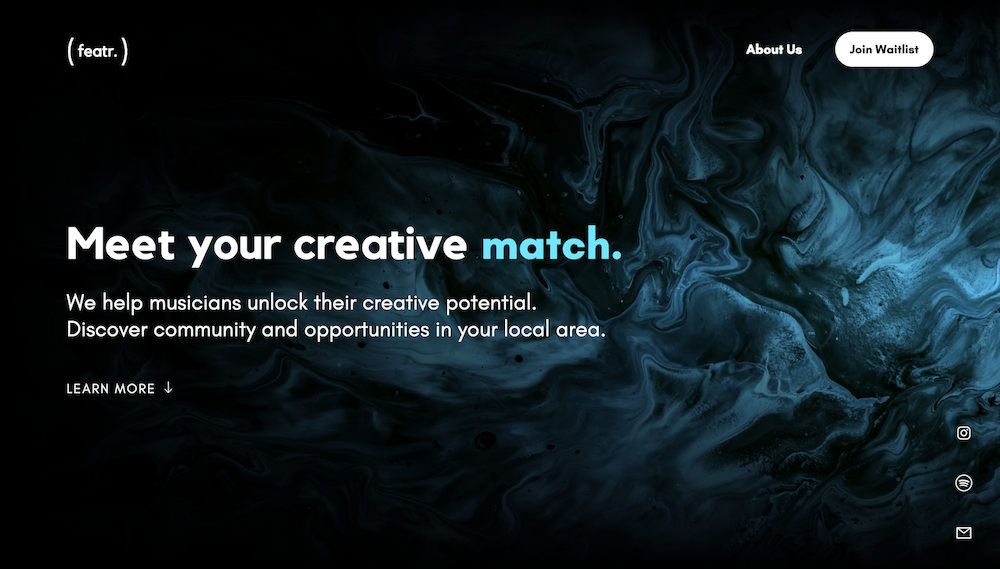
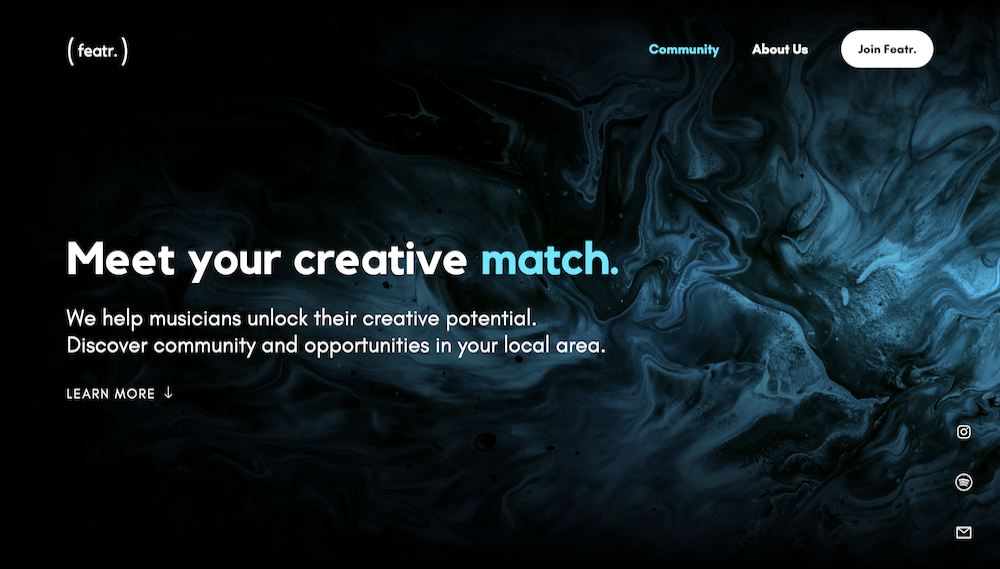
updated featr image

diff --git a/util/projects.ts b/util/projects.ts
@@ -44,7 +44,8 @@ export const projects: Project[] = [
   },
   {
     name: "Featr. Website",
-    description: "Website for the music start-up Featr.",
+    description:
+      "Website for the music start-up Featr. Features a community page for users to post upcoming shows and customizable profiles",
     tools: ["NextJS", "ReactJS", "Typescript", "Firebase"],
     projectType: ProjectType.WEB,
     link: "https://www.featr.co/",
